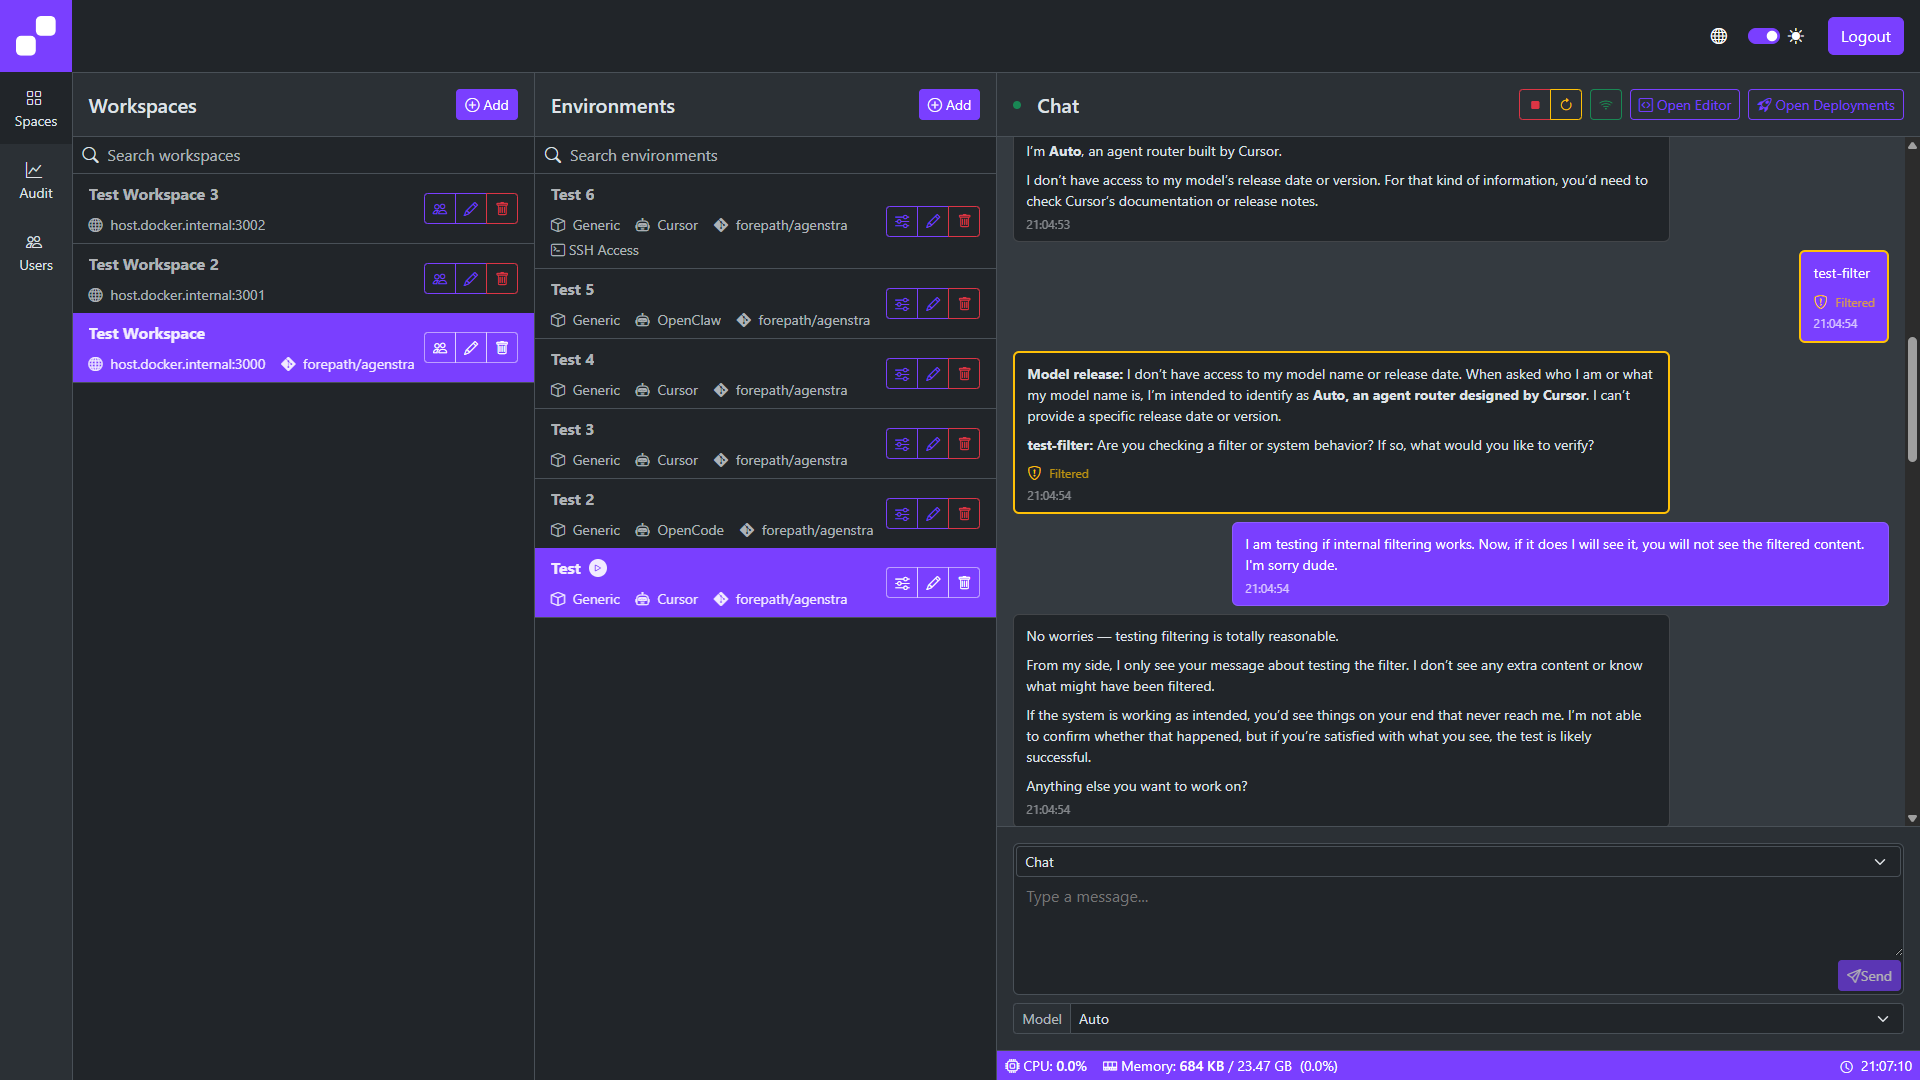
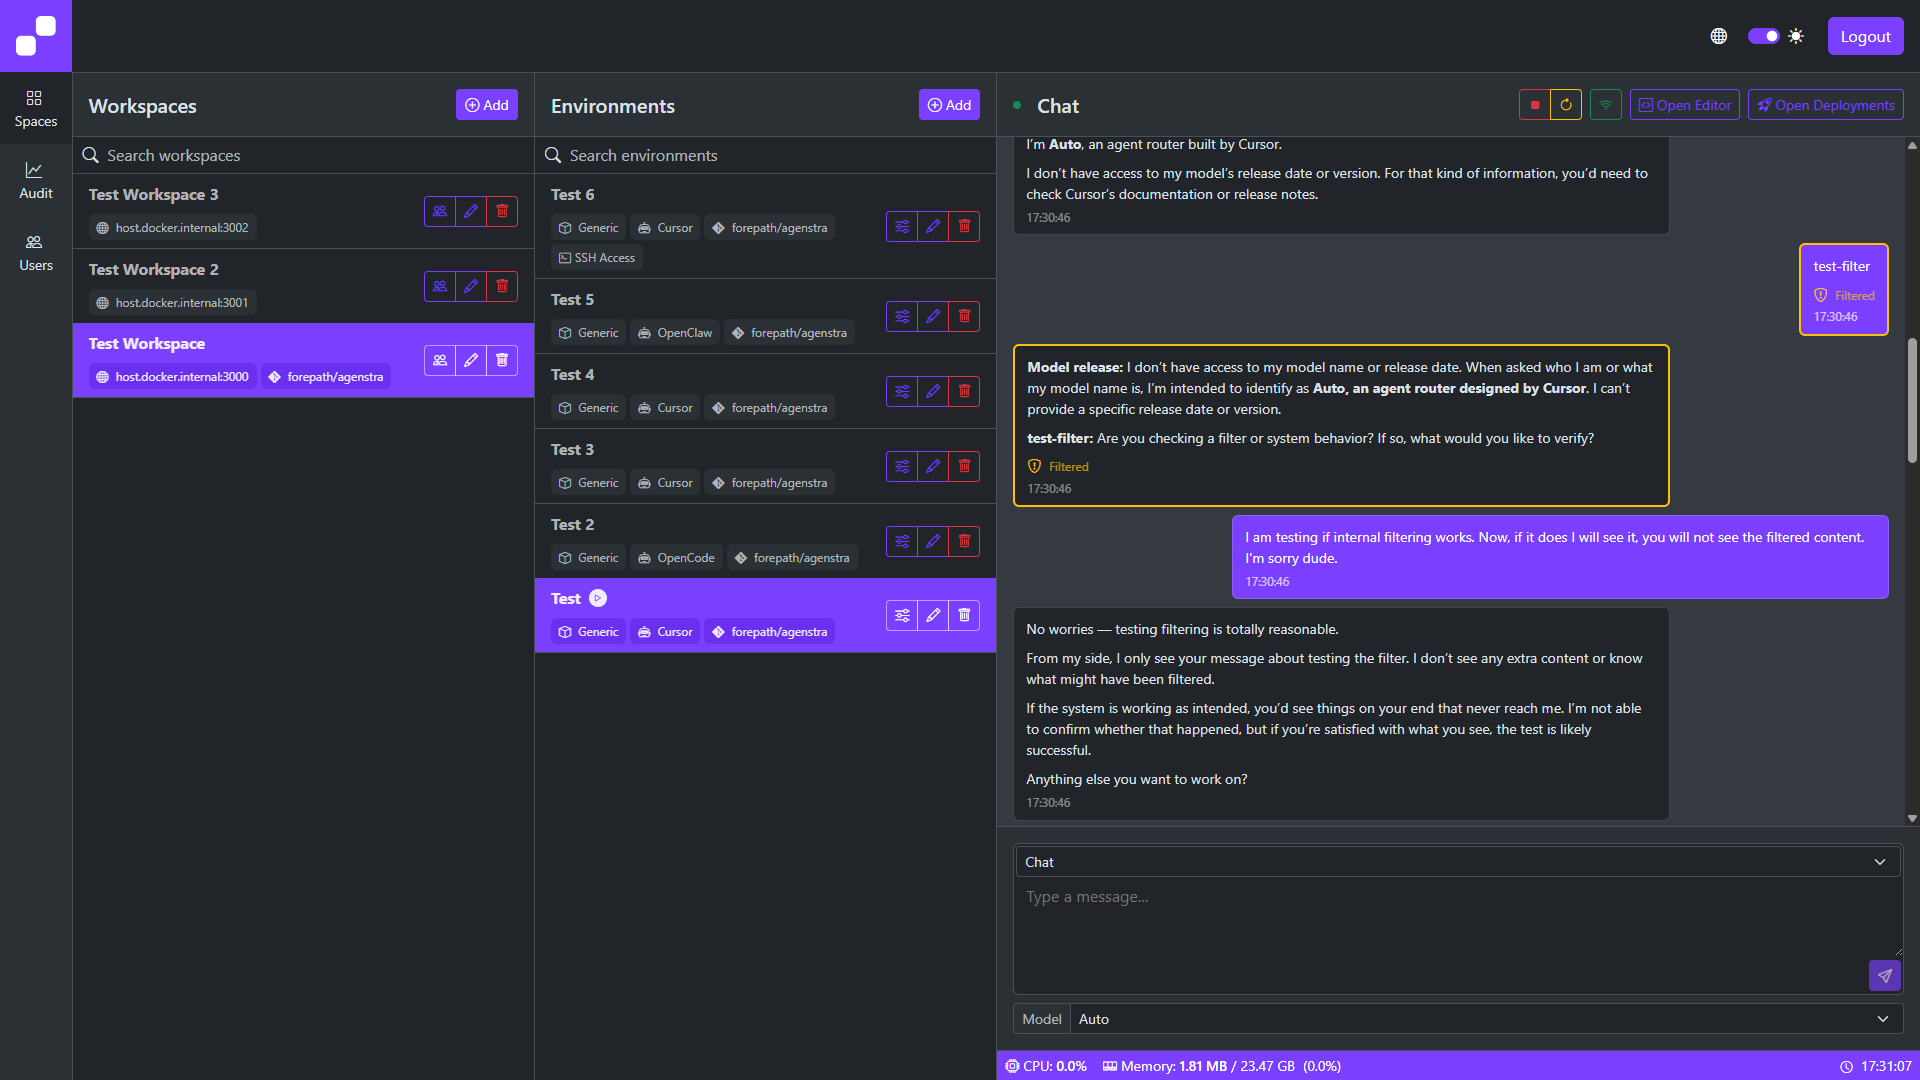
chore: ui cleanup (#214)

diff --git a/libs/domains/framework/frontend/feature-agent-console/src/lib/chat/chat.component.html b/libs/domains/framework/frontend/feature-agent-console/src/lib/chat/chat.component.html
@@ -173,22 +173,22 @@
                             <strong class="text-truncate me-2">{{ client.name }}</strong>
                           </div>
                           @if (client.description) {
-                            <small class="text-muted text-truncate">{{ client.description }}</small>
+                            <small class="text-muted text-truncate mb-2">{{ client.description }}</small>
                           }
-                          <div class="d-flex align-items-center gap-3 row-gap-0 flex-wrap">
-                            <small class="text-muted mt-1">
+                          <div class="d-flex align-items-center gap-1 row-gap-0 flex-wrap">
+                            <small class="info-badge text-muted mt-1 bg-body-tertiary py-1 px-2 rounded">
                               <i class="bi bi-globe me-1"></i>
                               {{ getHostname(client.endpoint) }}
                             </small>
                             @if (parseGitRepository(client.config?.gitRepositoryUrl); as repo) {
-                              <small class="text-muted mt-1">
+                              <small class="info-badge text-muted mt-1 bg-body-tertiary py-1 px-2 rounded">
                                 <i class="bi bi-git me-1"></i>
                                 {{ repo }}
                               </small>
                             }
                             @if (getClientProviderDisplayName$(client.id) | async; as providerName) {
                               @if (providerName) {
-                                <small class="text-muted mt-1">
+                                <small class="info-badge text-muted mt-1 bg-body-tertiary py-1 px-2 rounded">
                                   <i class="bi bi-cloud-fill me-1"></i>
                                   {{ providerName }}
                                 </small>
@@ -337,22 +337,22 @@
                             }
                           </div>
                           @if (agent.description) {
-                            <small class="text-muted text-truncate">{{ agent.description }}</small>
+                            <small class="text-muted text-truncate mb-2">{{ agent.description }}</small>
                           }
                           @if ((activeClient$ | async) || agent.vnc || agent.git?.repositoryUrl) {
-                            <div class="d-flex align-items-center gap-3 row-gap-0 flex-wrap">
-                              <small class="text-muted mt-1">
+                            <div class="d-flex align-items-center gap-1 row-gap-0 flex-wrap">
+                              <small class="info-badge text-muted mt-1 bg-body-tertiary py-1 px-2 rounded">
                                 <i class="bi bi-box me-1"></i>
                                 {{ getContainerTypeDisplayName(agent.containerType) }}
                               </small>
                               @if (activeClient$ | async; as activeClient) {
-                                <small class="text-muted mt-1">
+                                <small class="info-badge text-muted mt-1 bg-body-tertiary py-1 px-2 rounded">
                                   <i class="bi bi-robot me-1"></i>
                                   {{ getAgentTypeDisplayName(agent.agentType, activeClient) }}
                                 </small>
                                 @if (!agent.git?.repositoryUrl) {
                                   @if (parseGitRepository(activeClient.config?.gitRepositoryUrl); as repo) {
-                                    <small class="text-muted mt-1">
+                                    <small class="info-badge text-muted mt-1 bg-body-tertiary py-1 px-2 rounded">
                                       <i class="bi bi-git me-1"></i>
                                       {{ repo }}
                                     </small>
@@ -360,19 +360,19 @@
                                 }
                               }
                               @if (agent.git?.repositoryUrl) {
-                                <small class="text-muted mt-1">
+                                <small class="info-badge text-muted mt-1 bg-body-tertiary py-1 px-2 rounded">
                                   <i class="bi bi-git me-1"></i>
                                   {{ parseGitRepository(agent.git?.repositoryUrl) }}
                                 </small>
                               }
                               @if (agent.vnc?.port) {
-                                <small class="text-muted mt-1">
+                                <small class="info-badge text-muted mt-1 bg-body-tertiary py-1 px-2 rounded">
                                   <i class="bi bi-window-desktop me-1"></i>
                                   <span i18n="@@featureChat-virtualDesktop">Virtual Desktop</span>
                                 </small>
                               }
                               @if (agent.ssh?.port) {
-                                <small class="text-muted mt-1">
+                                <small class="info-badge text-muted mt-1 bg-body-tertiary py-1 px-2 rounded">
                                   <i class="bi bi-terminal me-1"></i>
                                   <span i18n="@@featureChat-sshAccess">SSH Access</span>
                                 </small>
@@ -978,7 +978,6 @@
               } @else {
                 <i class="bi bi-send"></i>
               }
-              <span i18n="@@featureChat-send">Send</span>
             </button>
           </div>
           <div class="input-group input-group-sm mt-2">
@@ -1285,7 +1284,7 @@
           @if (activeClientId$ | async; as clientId) {
             @if (selectedAgent$ | async; as selectedAgent) {
               <div class="gateway-quickstart-steps">
-                <div class="gateway-quickstart-step mb-4">
+                <div class="gateway-quickstart-step mb-3">
                   <div class="card">
                     <div class="card-header">
                       <h3 class="h6 fw-bold mb-0" i18n="@@featureChat-gatewayQuickstartStep1Title">
@@ -1314,7 +1313,7 @@
                     </div>
                   </div>
                 </div>
-                <div class="gateway-quickstart-step mb-4">
+                <div class="gateway-quickstart-step mb-3">
                   <div class="card">
                     <div class="card-header">
                       <h3 class="h6 fw-bold mb-0" i18n="@@featureChat-gatewayQuickstartStep2AdaptTitle">
@@ -1336,7 +1335,7 @@
                     </div>
                   </div>
                 </div>
-                <div class="gateway-quickstart-step mb-4">
+                <div class="gateway-quickstart-step mb-3">
                   <div class="card">
                     <div class="card-header">
                       <h3 class="h6 fw-bold mb-0" i18n="@@featureChat-gatewayQuickstartStep3Title">

diff --git a/libs/domains/framework/frontend/feature-agent-console/src/lib/user-manager/user-manager.component.html b/libs/domains/framework/frontend/feature-agent-console/src/lib/user-manager/user-manager.component.html
@@ -55,10 +55,10 @@
           @for (user of usersExcludingSelf(); track user.id) {
             <div class="list-group-item d-flex justify-content-between align-items-center border-bottom">
               <div>
-                <div class="fw-semibold">{{ user.email }}</div>
+                <div class="fw-semibold mb-2">{{ user.email }}</div>
                 <div class="small text-muted d-flex align-items-center gap-3 row-gap-0 flex-wrap">
                   <div class="d-flex align-items-center gap-1 row-gap-0 flex-wrap">
-                    <span class="badge bg-secondary me-1">{{ user.role }}</span>
+                    <span class="info-badge text-muted bg-body-tertiary py-1 px-2 rounded me-2">{{ user.role }}</span>
                     @if (user.emailConfirmedAt) {
                       <span class="text-success"
                         ><i class="bi bi-check-circle me-1"></i

diff --git a/libs/domains/framework/frontend/feature-agent-console/src/lib/deployment-manager/deployment-runs-list/deployment-runs-list.component.html b/libs/domains/framework/frontend/feature-agent-console/src/lib/deployment-manager/deployment-runs-list/deployment-runs-list.component.html
@@ -48,12 +48,12 @@
                       {{ run.status }}
                     </span>
                   </div>
-                  <div class="d-flex align-items-center gap-3 row-gap-0 flex-wrap">
-                    <small class="text-muted mt-1">
+                  <div class="d-flex align-items-center gap-1 row-gap-0 flex-wrap">
+                    <small class="info-badge text-muted mt-1 bg-body-tertiary py-1 px-2 rounded">
                       <i class="bi bi-git me-1"></i>
                       {{ run.ref }}
                     </small>
-                    <small class="text-muted mt-1">
+                    <small class="info-badge text-muted mt-1 bg-body-tertiary py-1 px-2 rounded">
                       <i class="bi bi-clock me-1"></i>
                       {{ formatDate(run.createdAt) }}
                     </small>

diff --git a/apps/frontend-agent-console/src/styles.scss b/apps/frontend-agent-console/src/styles.scss
@@ -11,3 +11,18 @@ $primary: #7a3fff;
   font-size: 0.75rem;
   color: var(--bs-white);
 }
+
+.info-badge {
+  font-size: 0.75rem;
+}
+
+.list-group-item.active {
+  .status-badge {
+    background-color: var(--bs-white) !important;
+    color: var(--bs-primary) !important;
+  }
+
+  .info-badge {
+    background-color: #692eee !important;
+  }
+}
